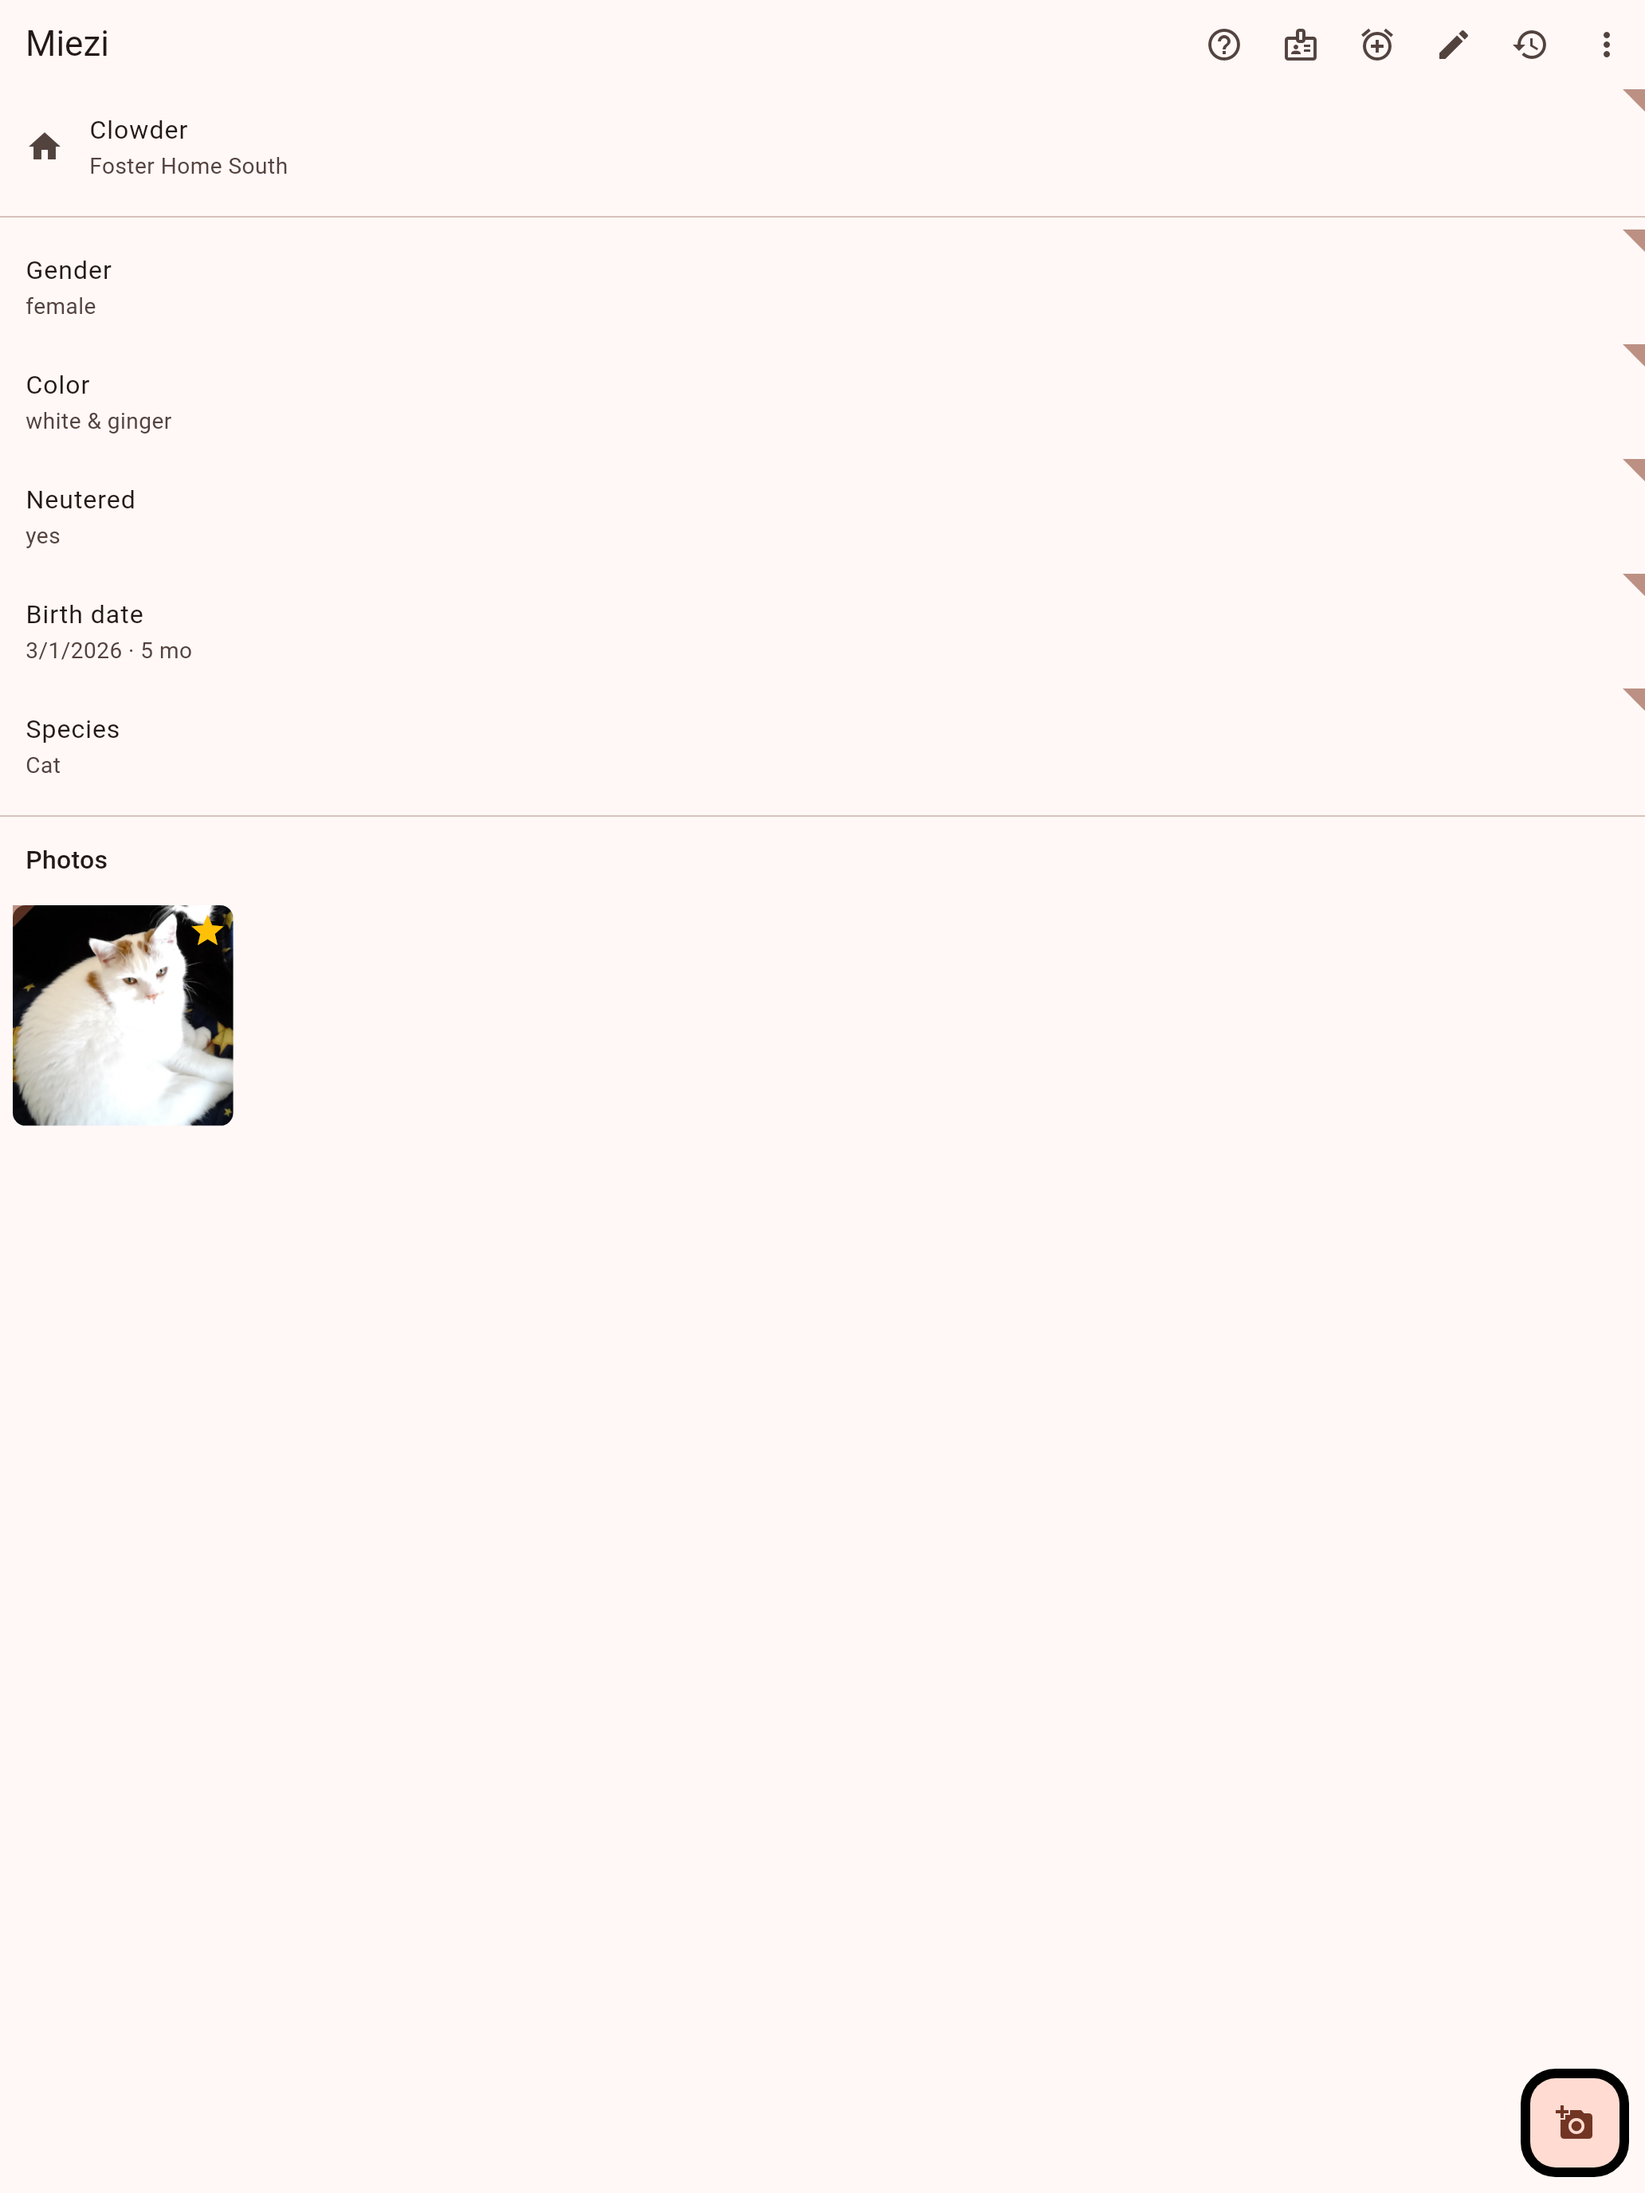
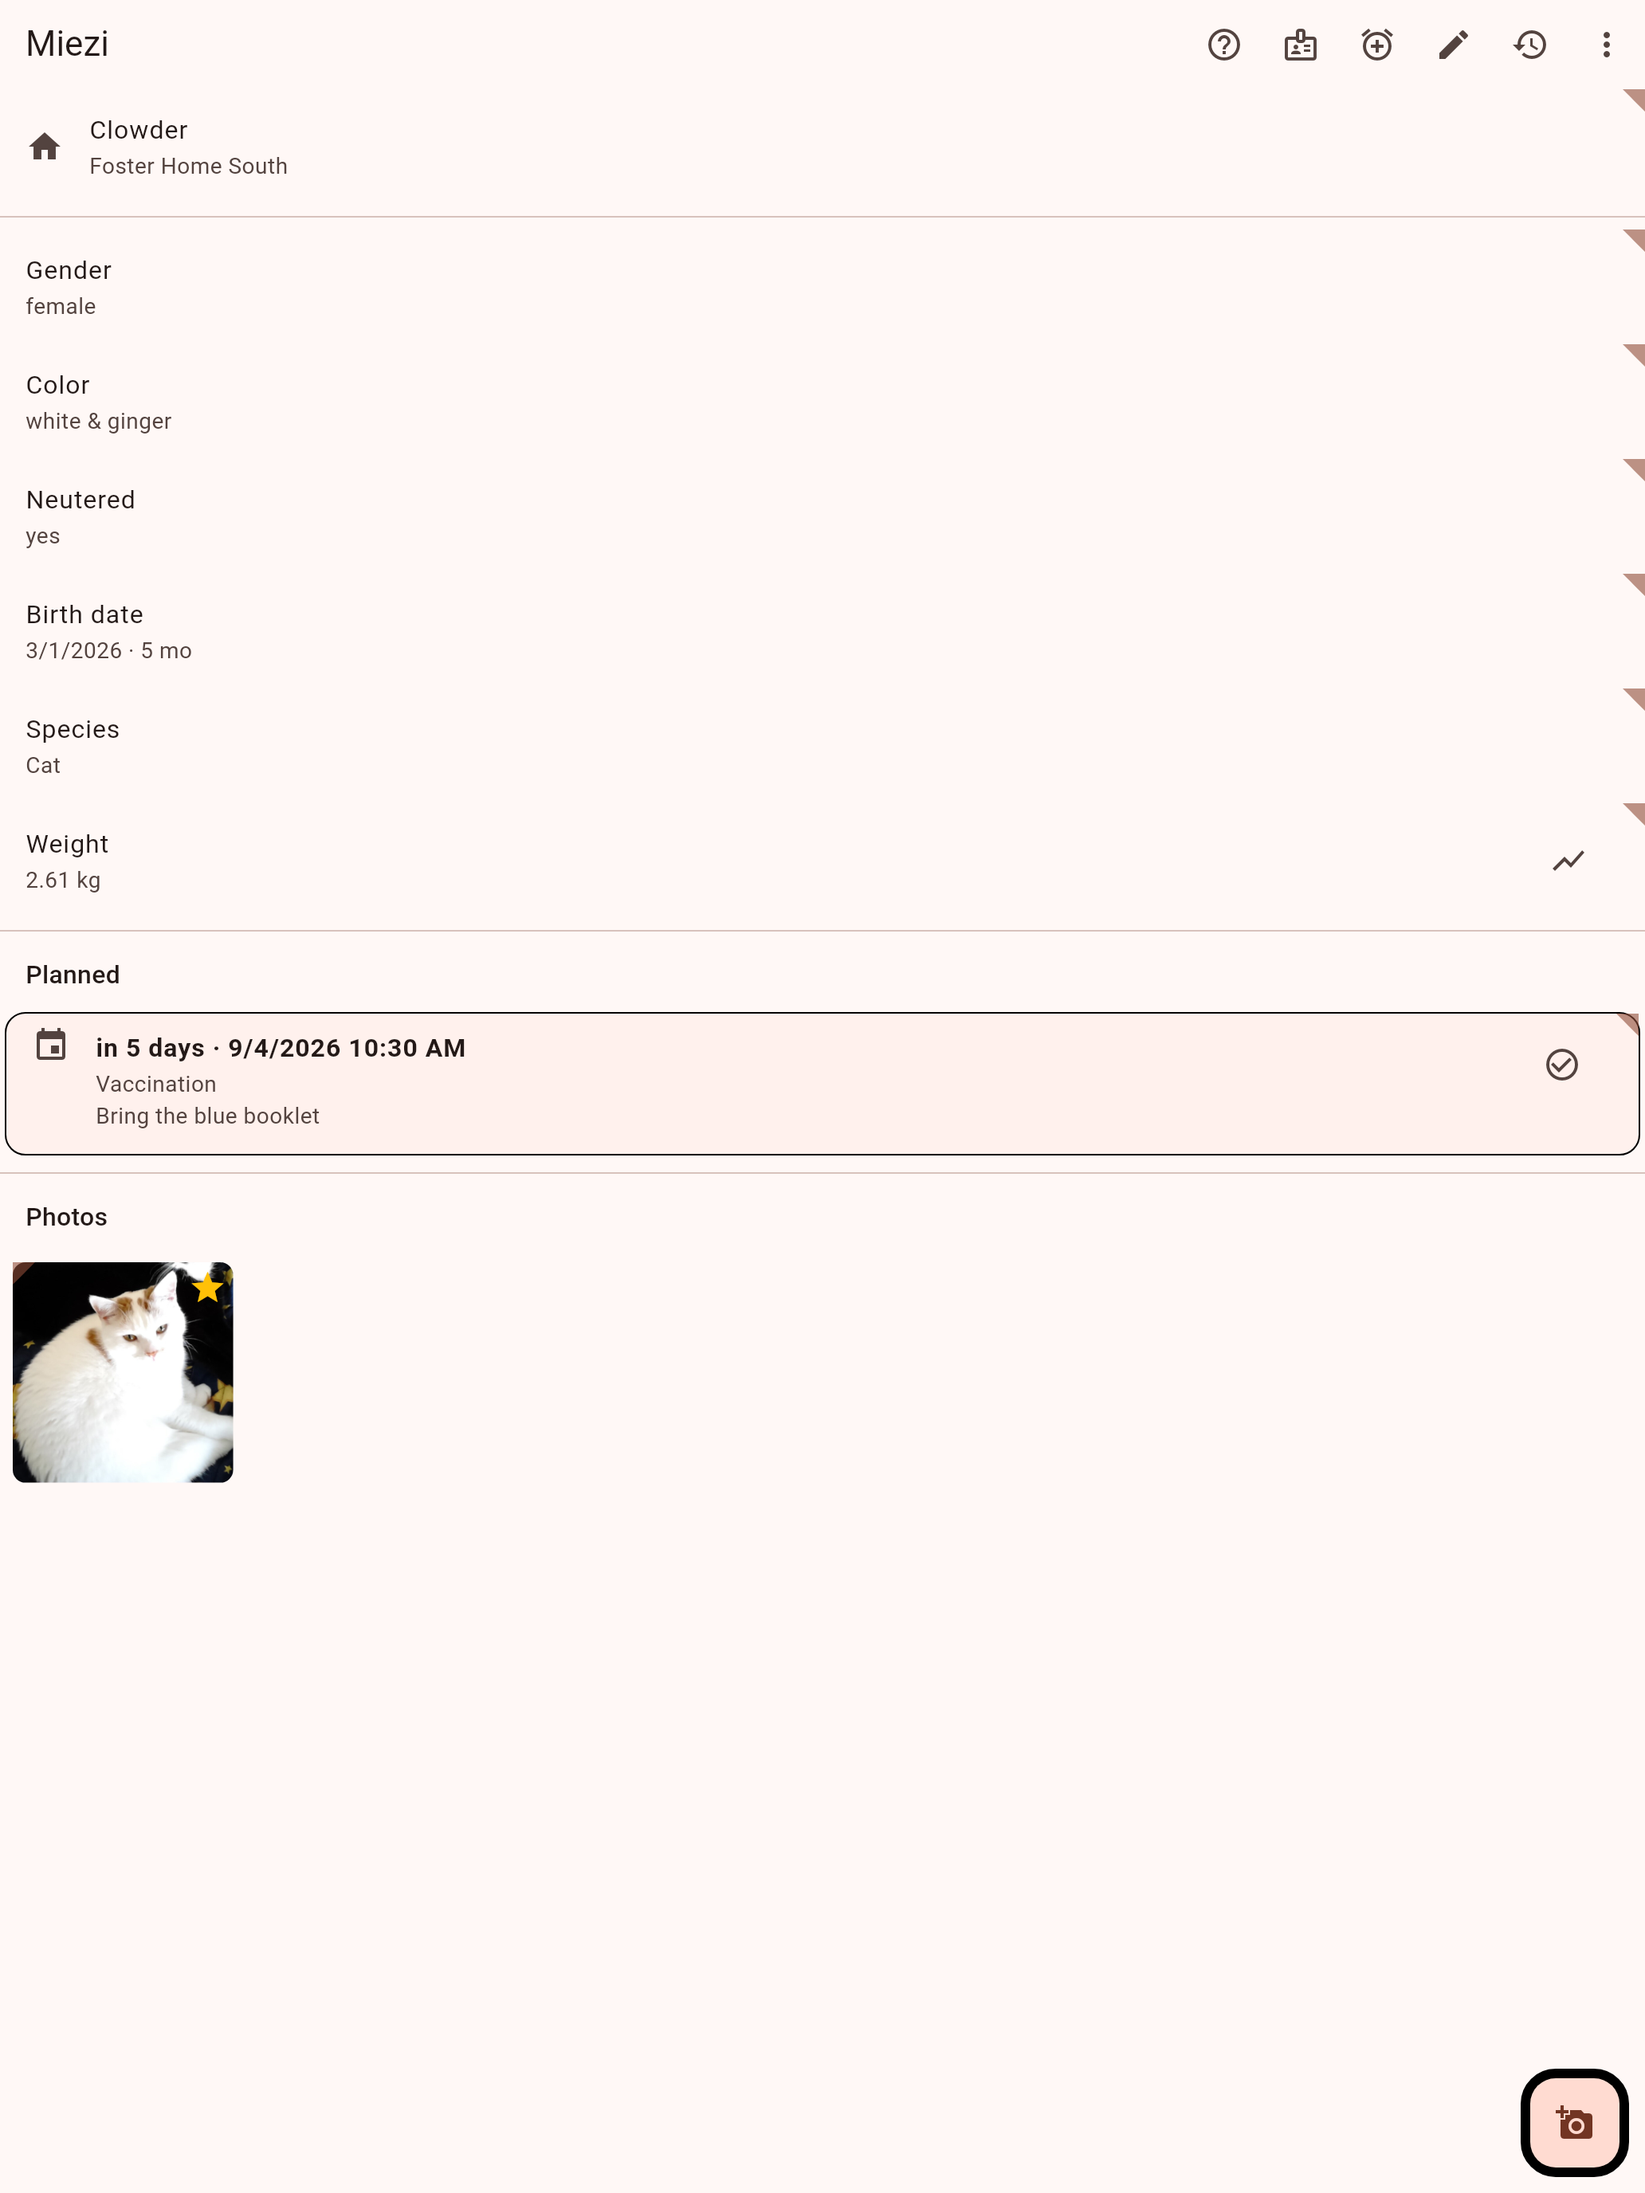
Regenerate the screenshot sets with graph, agenda and pet pages, add a Play set (#98)

diff --git a/test/screenshots/screenshots_test.dart b/test/screenshots/screenshots_test.dart
@@ -22,6 +22,9 @@ import 'package:flutter/material.dart';
 import 'package:flutter/rendering.dart';
 import 'package:flutter/services.dart';
 import 'package:flutter_test/flutter_test.dart';
+import 'package:catlog/src/screens/field_graph_screen.dart';
+import 'package:catlog/src/screens/agenda_screen.dart';
+import 'package:catlog/src/pet_mode.dart';
 
 Future<void> _loadRealFonts() async {
   final root = Platform.environment['FLUTTER_ROOT']!;
@@ -66,6 +69,21 @@ CatalogStore _demoStore() {
   store.append(miezi, 'f:neutered', 'yes', date: DateTime.utc(2026, 6, 14));
   store.append(miezi, 'f:birthdate', '2026-03-01',
       date: DateTime.utc(2026, 5, 3));
+  // A weight every fortnight — the graph page has a curve to show.
+  for (final (i, grams) in [980, 1240, 1510, 1760, 2050, 2290, 2480, 2610]
+      .indexed) {
+    store.append(miezi, 'f:weight', '$grams',
+        date: DateTime.utc(2026, 5, 3).add(Duration(days: 14 * i)));
+  }
+  store.createAppointment(Appointment(
+    id: '',
+    entity: miezi,
+    date: DateTime.utc(2026, 9, 4),
+    time: (hour: 10, minute: 30),
+    title: 'Vaccination',
+    notes: 'Bring the blue booklet',
+    alert: AppointmentAlert.dayBefore,
+  ));
 
   final balu =
       store.createCat('Balu', clowderId: home, date: DateTime.utc(2026, 5, 3));
@@ -91,6 +109,25 @@ CatalogStore _demoStore() {
   store.recordPosition(home, 52.5170, 13.3990,
       date: DateTime.utc(2026, 5, 2));
 
+  return store;
+}
+
+/// A second catalog in pet mode: a household with a dog and a rabbit.
+CatalogStore _petStore() {
+  final store = CatalogStore.inMemory();
+  store.author = 'Alex';
+  setPetMode(store, true);
+  final home = store.createClowder('Meadow Lane 3',
+      date: DateTime.utc(2026, 6, 1));
+  store.append(home, 'f:responsible', 'Jonas',
+      date: DateTime.utc(2026, 6, 1));
+  final rex = store.createCat('Rex',
+      clowderId: home, date: DateTime.utc(2026, 6, 1), species: 'dog');
+  store.append(rex, 'f:breed', 'Beagle', date: DateTime.utc(2026, 6, 1));
+  store.append(rex, 'f:weight', '11200', date: DateTime.utc(2026, 6, 1));
+  final hoppel = store.createCat('Hoppel',
+      clowderId: home, date: DateTime.utc(2026, 6, 1), species: 'rabbit');
+  store.append(hoppel, 'f:weight', '1850', date: DateTime.utc(2026, 6, 1));
   return store;
 }
 
@@ -153,6 +190,19 @@ void main() {
         tester, CardScreen(store: store, catId: miezi), '04-card');
     await shoot(tester,
         TimelineScreen(store: store, entityId: miezi), '05-timeline');
+    final weight = store.fieldDefs().firstWhere((d) => d.slug == 'weight');
+    await shoot(
+        tester,
+        FieldGraphScreen(store: store, entityId: miezi, def: weight),
+        '07-graph');
+    await shoot(tester, AgendaScreen(store: store), '08-agenda');
+    final pets = _petStore();
+    addTearDown(pets.close);
+    final meadow = pets.clowders().single.id;
+    petMode.value = true;
+    await shoot(tester,
+        ClowderDetailScreen(store: pets, clowderId: meadow), '09-pets');
+    petMode.value = false;
 
     // Map with REAL pre-downloaded OSM tiles (test/screenshots/tiles,
     // fetched once by the tile script) — no network in tests.
@@ -166,19 +216,31 @@ void main() {
     Directory('docs/screenshots/appstore').createSync(recursive: true);
     const phone = Size(1320, 2868);
     const pad = Size(2064, 2752);
-    final shots = <String, Widget>{
-      '01-home': ClowderListScreen(store: store),
-      '02-clowder': ClowderDetailScreen(store: store, clowderId: home),
-      '03-cat': CatDetailScreen(store: store, catId: miezi),
-      '04-card': CardScreen(store: store, catId: miezi),
-      '05-timeline': TimelineScreen(store: store, entityId: miezi),
-      '06-map': MapScreen(store: store, tileProvider: tiles),
+    final shots = <String, Widget Function()>{
+      '01-home': () => ClowderListScreen(store: store),
+      '02-clowder': () => ClowderDetailScreen(store: store, clowderId: home),
+      '03-cat': () => CatDetailScreen(store: store, catId: miezi),
+      '04-card': () => CardScreen(store: store, catId: miezi),
+      '05-timeline': () => TimelineScreen(store: store, entityId: miezi),
+      '06-map': () => MapScreen(store: store, tileProvider: tiles),
+      '07-graph': () =>
+          FieldGraphScreen(store: store, entityId: miezi, def: weight),
+      '08-agenda': () => AgendaScreen(store: store),
+      '09-pets': () => ClowderDetailScreen(store: pets, clowderId: meadow),
     };
+    // Google Play set (9:16), into docs/screenshots/play/ — copied to
+    // catlog-ops/play/shots by hand.
+    Directory('docs/screenshots/play').createSync(recursive: true);
+    const play = Size(1080, 1920);
     for (final entry in shots.entries) {
-      await shoot(tester, entry.value, 'appstore/iphone-${entry.key}',
+      petMode.value = entry.key == '09-pets';
+      await shoot(tester, entry.value(), 'appstore/iphone-${entry.key}',
           physical: phone, dpr: 3);
-      await shoot(tester, entry.value, 'appstore/ipad-${entry.key}',
+      await shoot(tester, entry.value(), 'appstore/ipad-${entry.key}',
           physical: pad, dpr: 2);
+      await shoot(tester, entry.value(), 'play/play-${entry.key}',
+          physical: play, dpr: 3);
     }
+    petMode.value = false;
   });
 }

diff --git a/lib/src/screens/field_graph_screen.dart b/lib/src/screens/field_graph_screen.dart
@@ -180,7 +180,9 @@ class _FieldGraphScreenState extends State<FieldGraphScreen> {
               to: to ?? DateTime.now(),
               appointments: appointments,
               lineColor: Theme.of(context).colorScheme.primary,
-              textColor: Theme.of(context).colorScheme.onSurface,
+              // The painter draws its own text: it must carry the app's
+              // font, or it falls back to the engine's box glyphs.
+              labelStyle: Theme.of(context).textTheme.bodySmall!,
               tickColor: Theme.of(context).colorScheme.tertiary,
               format: _number,
               dateFormat: (d) => DateFormat.MMMd(locale).format(d),
@@ -206,7 +208,7 @@ class GraphPainter extends CustomPainter {
   final DateTime to;
   final List<DateTime> appointments;
   final Color lineColor;
-  final Color textColor;
+  final TextStyle labelStyle;
   final Color tickColor;
   final String Function(double) format;
   final String Function(DateTime) dateFormat;
@@ -217,7 +219,7 @@ class GraphPainter extends CustomPainter {
     required this.to,
     required this.appointments,
     required this.lineColor,
-    required this.textColor,
+    required this.labelStyle,
     required this.tickColor,
     required this.format,
     required this.dateFormat,
@@ -227,6 +229,7 @@ class GraphPainter extends CustomPainter {
   void paint(Canvas canvas, Size size) {
     const left = 8.0, right = 8.0, top = 20.0, bottom = 28.0;
     final plot = Rect.fromLTRB(left, top, size.width - right, size.height - bottom);
+    final textColor = labelStyle.color ?? Colors.black;
     final axis = Paint()
       ..color = textColor.withValues(alpha: 0.3)
       ..strokeWidth = 1;
@@ -275,8 +278,7 @@ class GraphPainter extends CustomPainter {
       canvas.drawCircle(o, 4, dot);
       final painter = TextPainter(
         text: TextSpan(
-            text: format(p.value),
-            style: TextStyle(color: textColor, fontSize: 11)),
+            text: format(p.value), style: labelStyle.copyWith(fontSize: 11)),
         textDirection: TextDirection.ltr,
       )..layout();
       final dx = (o.dx - painter.width / 2).clamp(plot.left, plot.right - painter.width);
@@ -296,8 +298,7 @@ class GraphPainter extends CustomPainter {
     for (final (d, alignRight) in [(start, false), (to, true)]) {
       final painter = TextPainter(
         text: TextSpan(
-            text: dateFormat(d),
-            style: TextStyle(color: textColor, fontSize: 10)),
+            text: dateFormat(d), style: labelStyle.copyWith(fontSize: 10)),
         textDirection: TextDirection.ltr,
       )..layout();
       painter.paint(

diff --git a/README.md b/README.md
@@ -56,6 +56,10 @@ who made it, and you can look at any cat's story like a diary.
 |---|---|---|
 | ![Clowder](docs/screenshots/02-clowder.png) | ![Timeline](docs/screenshots/05-timeline.png) | ![Map](docs/screenshots/06-map.png) |
 
+| Weight over time | The agenda | Pets, too |
+|---|---|---|
+| ![Graph](docs/screenshots/07-graph.png) | ![Agenda](docs/screenshots/08-agenda.png) | ![Pets](docs/screenshots/09-pets.png) |
+
 *(Demo data — the cats in your catalog will be considerably fluffier.)*
 
 ## Get it
